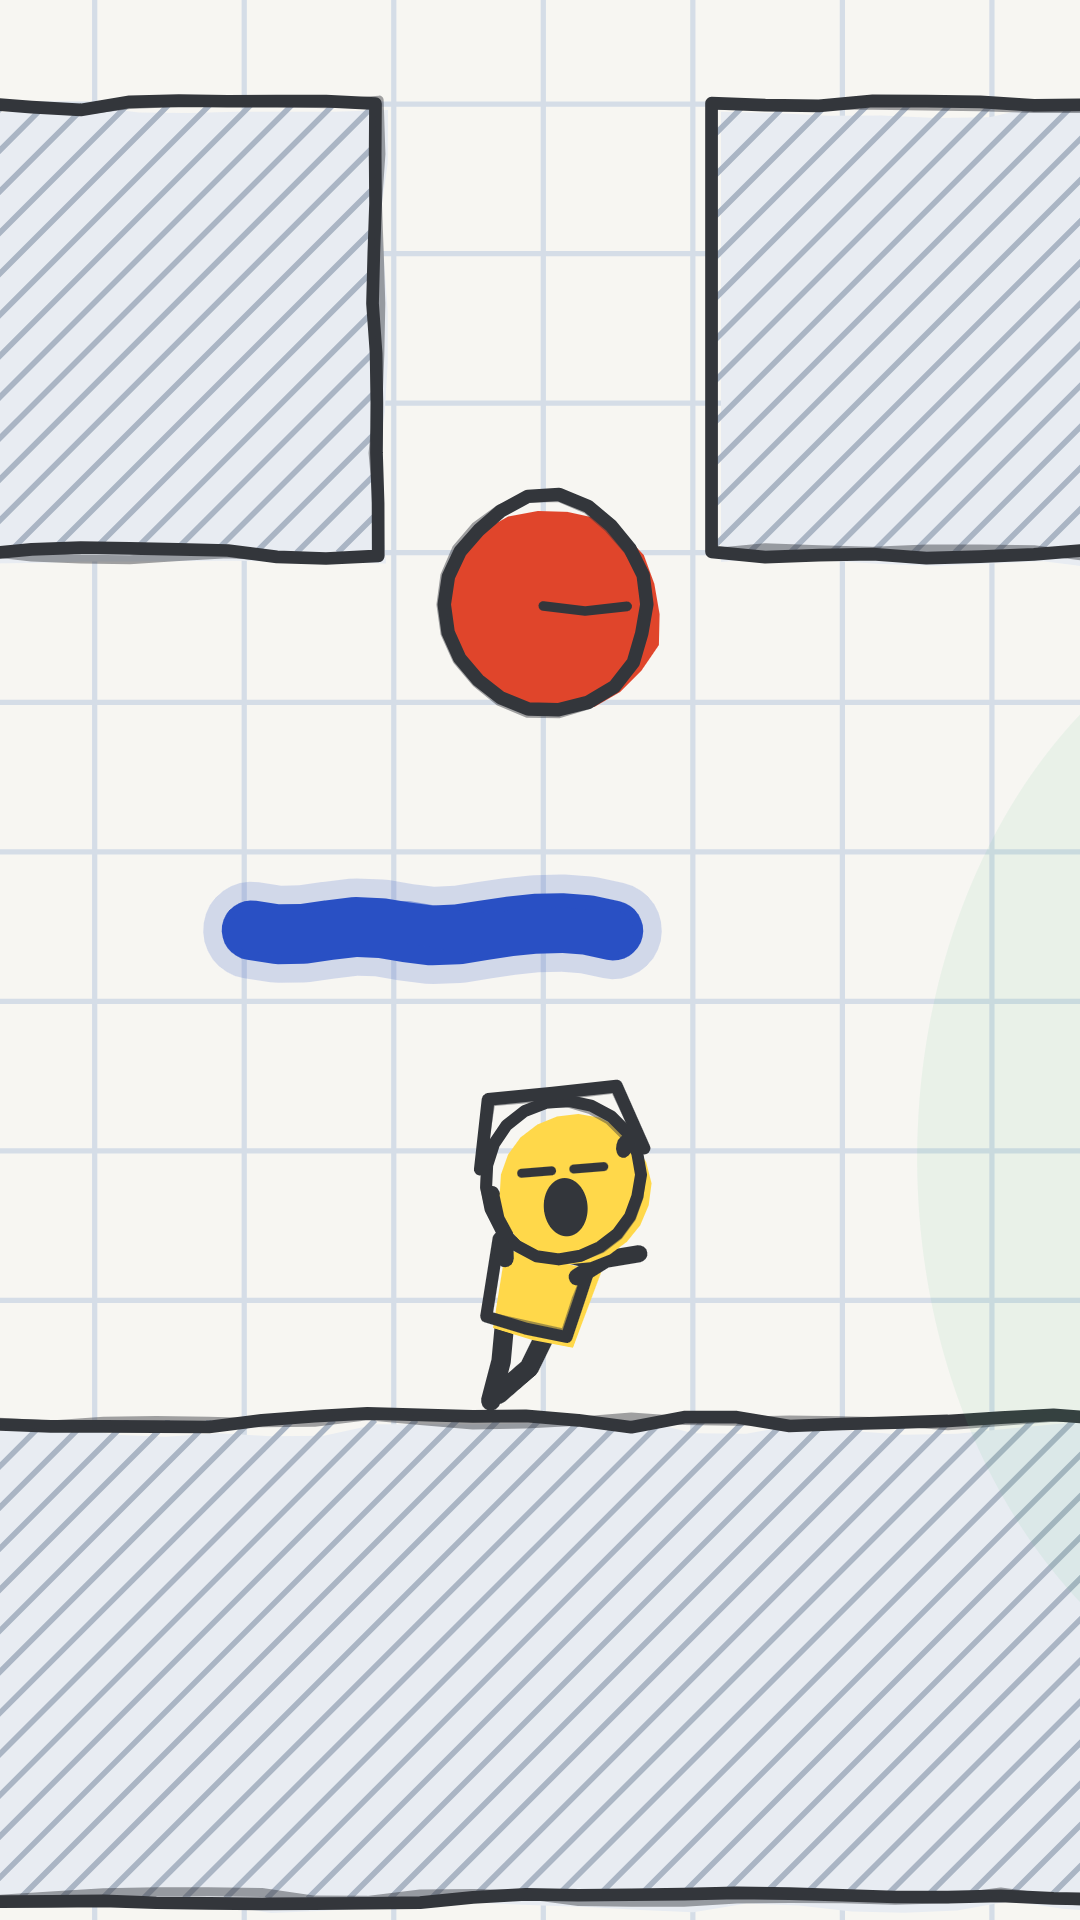
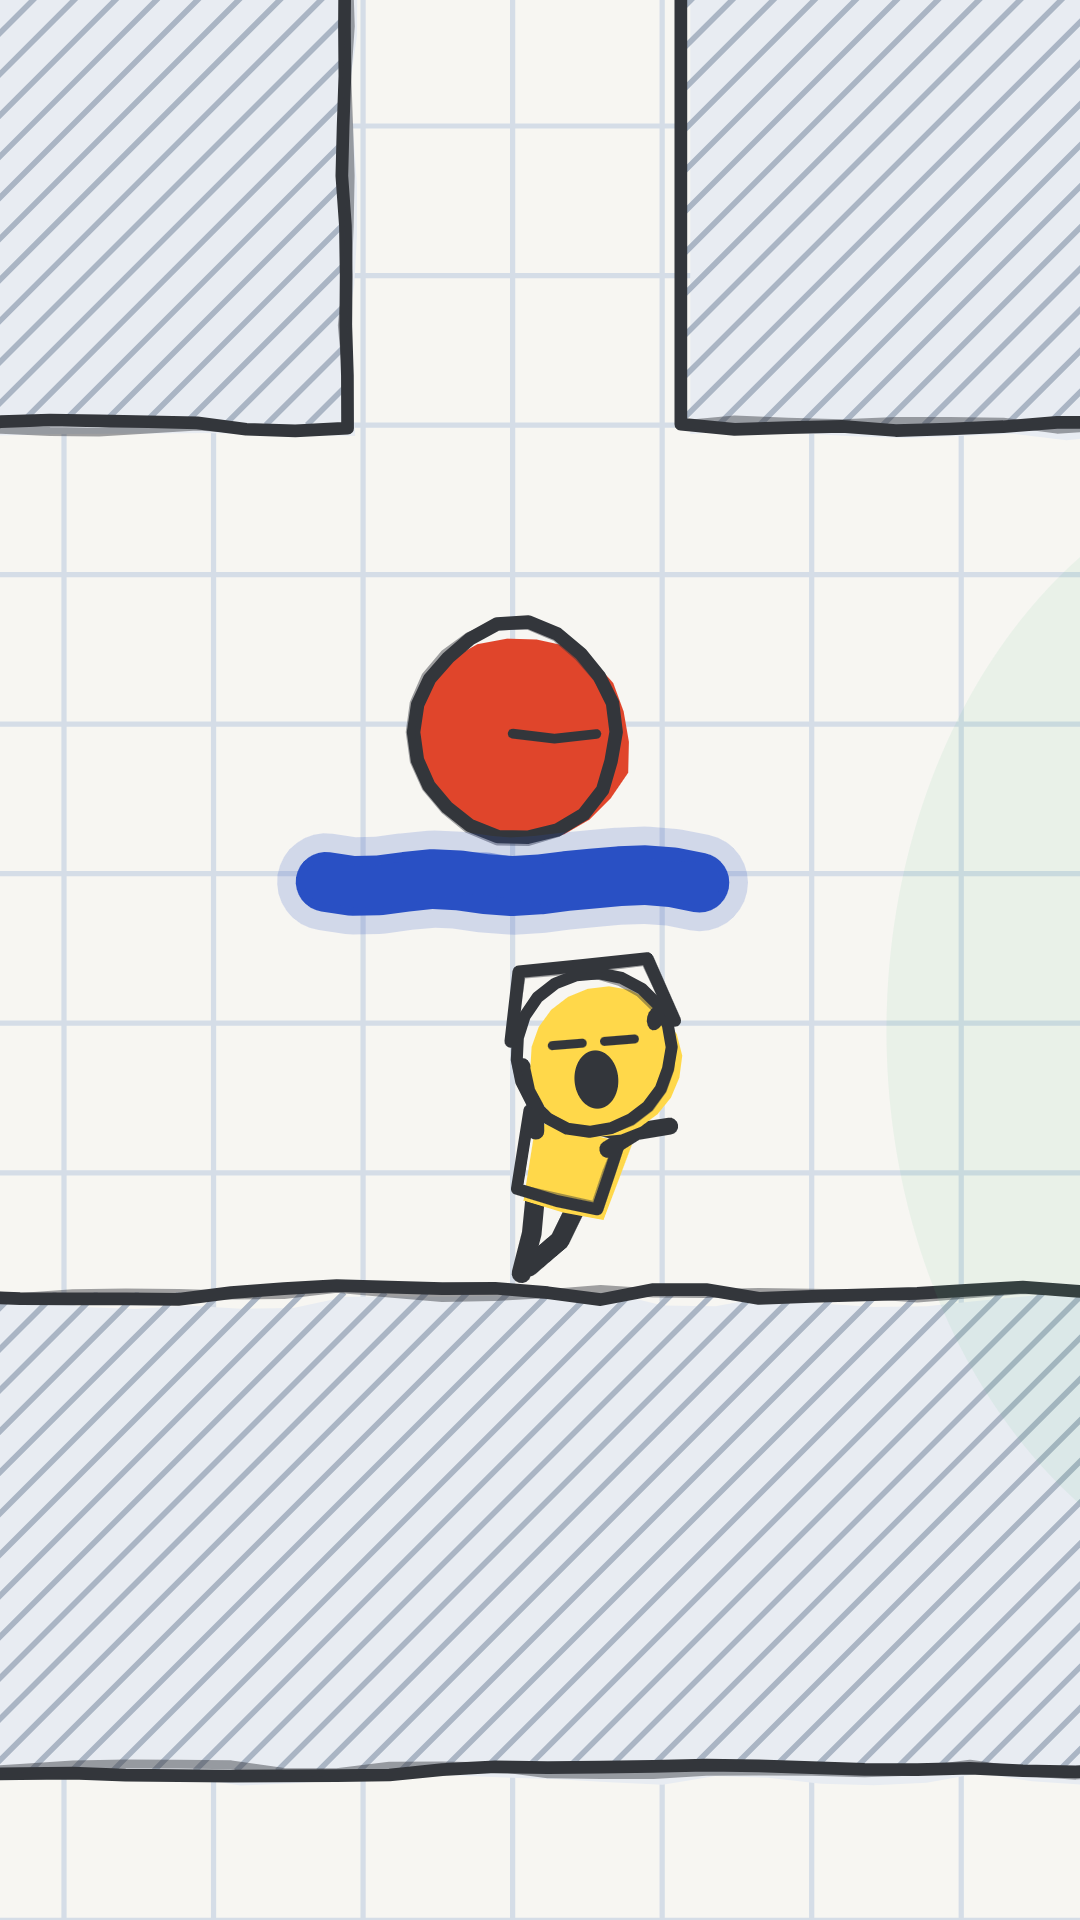
Covers v2: the blue line holds the boulder (tight close-up, real renderer); old covers marked superseded; launch docs corrected (tags, sizes, test status, Chapter 1 re-shoot)

diff --git a/docs/launch/covers/generator/cover.html b/docs/launch/covers/generator/cover.html
@@ -58,8 +58,11 @@ window.renderCover = (opts) => {
   if (line) {
     const n = 14, pts = [];
     // 'auto' = midway between the boulder's underside and the top of Milo's head
-    const ly = line.y === 'auto' ? ((ballP.y + 28) + (miloP.y - 36)) / 2 : line.y;
-    const lx0 = line.x0 ?? ballP.x - 78, lx1 = line.x1 ?? ballP.x + 78;
+    // 'catch' = directly under the boulder, so the line reads as holding it back
+    const ly = line.y === 'catch' ? ballP.y + 28 + 12
+      : line.y === 'auto' ? ((ballP.y + 28) + (miloP.y - 36)) / 2 : line.y;
+    const half = line.half ?? 78;
+    const lx0 = line.x0 ?? ballP.x - half, lx1 = line.x1 ?? ballP.x + half;
     for (let i = 0; i <= n; i++) {
       const t = (i / n) * (line.part ?? 1);
       pts.push({ x: lx0 + (lx1 - lx0) * t, y: ly + Math.sin(i * 0.9) * 1.4 });

diff --git a/docs/launch/LAUNCH.md b/docs/launch/LAUNCH.md
@@ -1,5 +1,14 @@
 # LAUNCH — v1.0, 27 Oct 2026
 
+> **STATUS, 6 Nov 2026 (read this first).** This file describes the 27 Oct launch.
+> What is true now: tag `v1.0` = `5d38d3b` and tag `v1.0.1` = `c9a273a` (D12: BRIDGE
+> is the Chapter 1 boss). The Playgama-ready work (Bridge pause/audio/storage/ads,
+> recorded sound, full-window layout, new covers) is on branch
+> `prelaunch/playgama-compliance`, pushed, NOT merged to `main` and NOT tagged.
+> Current zips (5 Nov): YouTube 96,790 B, web 96,794 B, Playgama 493,269 B (it
+> carries the recorded-sound bank). Details: `docs/launch/PLAYGAMA-CHECKLIST.md`,
+> `docs/DECISIONS.md` D13-D16.
+
 **Decision (D11 in docs/DECISIONS.md):** ship the 45 levels now to the places
 that will take them today. Stop adding content. Let real players' numbers
 decide what comes next.
@@ -23,11 +32,11 @@ commission a trademark search on the title (`docs/CERTIFICATION.md` §6,
 
 ## Frozen at launch
 
-- **The campaign**: 45 levels, as of release commit `f159983` on
-  `claude/game-markdown-review-23hf3j`. Any change to it reshuffles every
-  future daily challenge, so after launch change it in batches, and say so.
-  **Tag it on GitHub** (this session's git access cannot push tags):
-  Releases → Draft a new release → tag `v1.0` → target that commit.
+- **The campaign**: 45 levels. It was frozen at commit `f159983` on 27 Oct; the
+  tags that exist now are `v1.0` = `5d38d3b` and `v1.0.1` = `c9a273a`, which
+  re-ordered Chapter 1 only (D12). Any change to it reshuffles every future
+  daily challenge, so after launch change it in batches, and say so.
+  (Tags exist on GitHub; do not move them: a change gets a new tag.)
 - **No new levels until the numbers are in.** The 25 open slots, bee slot 29,
   FUNNEL's back door and the eight levels over the 60-try ceiling all wait for
   real attempts.
@@ -63,11 +72,12 @@ commission a trademark search on the title (`docs/CERTIFICATION.md` §6,
 
 | Check | Result |
 |---|---|
-| `npm run film` | All 45 levels won by their certified, hand-drawn lines in the real browser |
+| `npm run film` | All 45 levels won by their certified, hand-drawn lines in the real browser. **Chapter 1 was re-shot on 6 Nov 2026 in the D12 order: 8 of 8 won** (films read, BRIDGE included); the other 37 were last shot 27 Oct, and their order did not change |
 | `FILM_IDLE=1 npm run film` | All 45 lost with nothing drawn, each with a named reason |
 | `npm test` | All physics gates pass |
 | `npm run curve` | Pass |
 | `npm run plates` | Pass (FUNNEL listed open) |
 | `npm run test:board` | Pass |
-| `npm run test:conformance` | Every machine-checkable YouTube row passes |
-| Zips | 92 KB each |
+| `npm run test:conformance` | Every machine-checkable YouTube row passes on Linux. **On Windows 6 Nov: 46 pass, 5 cannot run** (they build file paths with `.pathname` and call a Linux `unzip`; the files exist) |
+| `npm run test:browser` / `test:board` / `test:audio` | Pass on 6 Nov (Chromium 1234; `test:board` needs `BASE_URL=http://127.0.0.1:8080/` with `npm run serve` running) |
+| Zips (5 Nov) | YouTube 96,790 B, web 96,794 B (about 95 KB each), Playgama 493,269 B |

diff --git a/docs/launch/covers/README.md b/docs/launch/covers/README.md
@@ -1,16 +1,17 @@
 # Covers for the Playgama form (text-free)
 
-Made 5 Nov 2026 from the game's OWN renderer, not drawn separately: `generator/cover.html` imports `js/sim.js`, `js/levels.js` (level A1) and `js/render/world.js`, steps the real sim to 700 ms (the boulder is about to land), forces Milo's `danger` to 0.95 so his real face shows full fright, and draws a half-finished pencil line between the boulder and Milo with the game's own live-stroke renderer. No lettering, no logo, no platform mark.
+Made 5 Nov 2026 from the game's OWN renderer, not drawn separately: `generator/cover.html` imports `js/sim.js`, `js/levels.js` (level A1) and `js/render/world.js`, steps the real sim to 770 ms (the boulder is a hand's width above Milo), forces Milo's `danger` to 0.95 so his real face shows full fright, and draws the bold blue line directly under the boulder, so it reads as holding it back (`line.y = 'catch'`), with the game's own live-stroke renderer. Camera: tight on the boulder, the line and Milo. No lettering, no logo, no platform mark.
 
 | File | Size (Playgama cover slot) |
 |---|---|
 | `byc-cover-square-800x800.png` | square 800x800 |
 | `byc-cover-portrait-1080x1920.png` | portrait 1080x1920 |
 | `byc-cover-landscape-1920x1080.png` | landscape 1920x1080 |
-| `alt/*-noline.png` | same frames without the half-drawn line |
+| `alt/*-floating-line.png` | first version (6 Nov, earlier): the line floated between the boulder and Milo and did not read as holding it back |
+| `alt/*-noline.png` | the floating-line frames without any line |
 
 Subject sits in the middle ~70% of every frame: the YouTube hub tile is 194x272 (about 5:7) and crops a square to its middle 71% (docs/research/most-played/tile-census.md).
 
-Rebuild: `python generator/cover-server.py <repo root>` (binds 127.0.0.1:8102), open http://127.0.0.1:8102/ in Chrome and run `window.saveCover(name, {w, h, ms: 700, zoom, line})` from the console; PNGs land in `generator/out/`. The server is a scratch tool, not part of the game.
+Rebuild: `python generator/cover-server.py <repo root>` (binds 127.0.0.1:8102), open http://127.0.0.1:8102/ in Chrome and run `window.saveCover(name, {w, h, ms: 770, zoom: 0.92, line: {y: 'catch', half: 68, part: 1}})` from the console; PNGs land in `generator/out/`. The server is a scratch tool, not part of the game.
 
 Honest limit: the look follows the draw-genre convention (a scared character under a visible threat). No data says it earns clicks; the red-team found near-identical tiles far lower in plays (docs/research/most-played/red-team.md section 3).

diff --git a/docs/launch/STORE_PAGE.md b/docs/launch/STORE_PAGE.md
@@ -14,9 +14,10 @@ The order to put it out, and what to read afterwards, is in **`LAUNCH.md`**.
 | `dist/byc-web.zip` | **The open web**: itch.io, CrazyGames, any static host. No YouTube SDK. |
 | `dist/byc-playgama.zip` | **Playgama Sandbox**: real players' attempts per level (see `docs/PLAYGAMA.md`). |
 | `dist/byc-playables.zip` | **YouTube**: upload in the Playables developer portal once access arrives. |
-| `cover-630x500.png` | itch.io cover |
-| `cover-1920x1080.png` | landscape key art (16:9) |
-| `cover-800x1200.png` | portrait key art (2:3) |
+| `cover-630x500.png` | itch.io cover. **SUPERSEDED for Playgama/YouTube (6 Nov):** three small phone frames on mostly empty paper, Milo about 4% of the height, no drawn line, a tiny HUD counter; do not submit |
+| `cover-1920x1080.png` | landscape key art (16:9). **Superseded**, same reason |
+| `cover-800x1200.png` | portrait key art (2:3). **Superseded**, same reason |
+| `covers/` | **Current Playgama covers** (800x800, 1080x1920, 1920x1080), text-free, from the game's own renderer; see `covers/README.md` |
 | `screenshot-1` … `8` | store screenshots, in this order |
 
 Portals that ask for other sizes say so on their upload page. Recapture at
@@ -116,7 +117,7 @@ would rule out CrazyGames. Leave it until the numbers say which is worth more.
 > - cloud save via `saveData`/`loadData` is the only save;
 > - `onPause` halts physics, audio and rendering;
 > - zero external network calls;
-> - a 92 KB zip, interactive 163 ms after load in our conformance run;
+> - a 95 KB zip (96,790 bytes), interactive 250 ms after load in our 6 Nov conformance run;
 > - playable at all nine aspect ratios.
 >
 > 45 levels in seven chapters, plus a daily challenge. A certification dry-run
